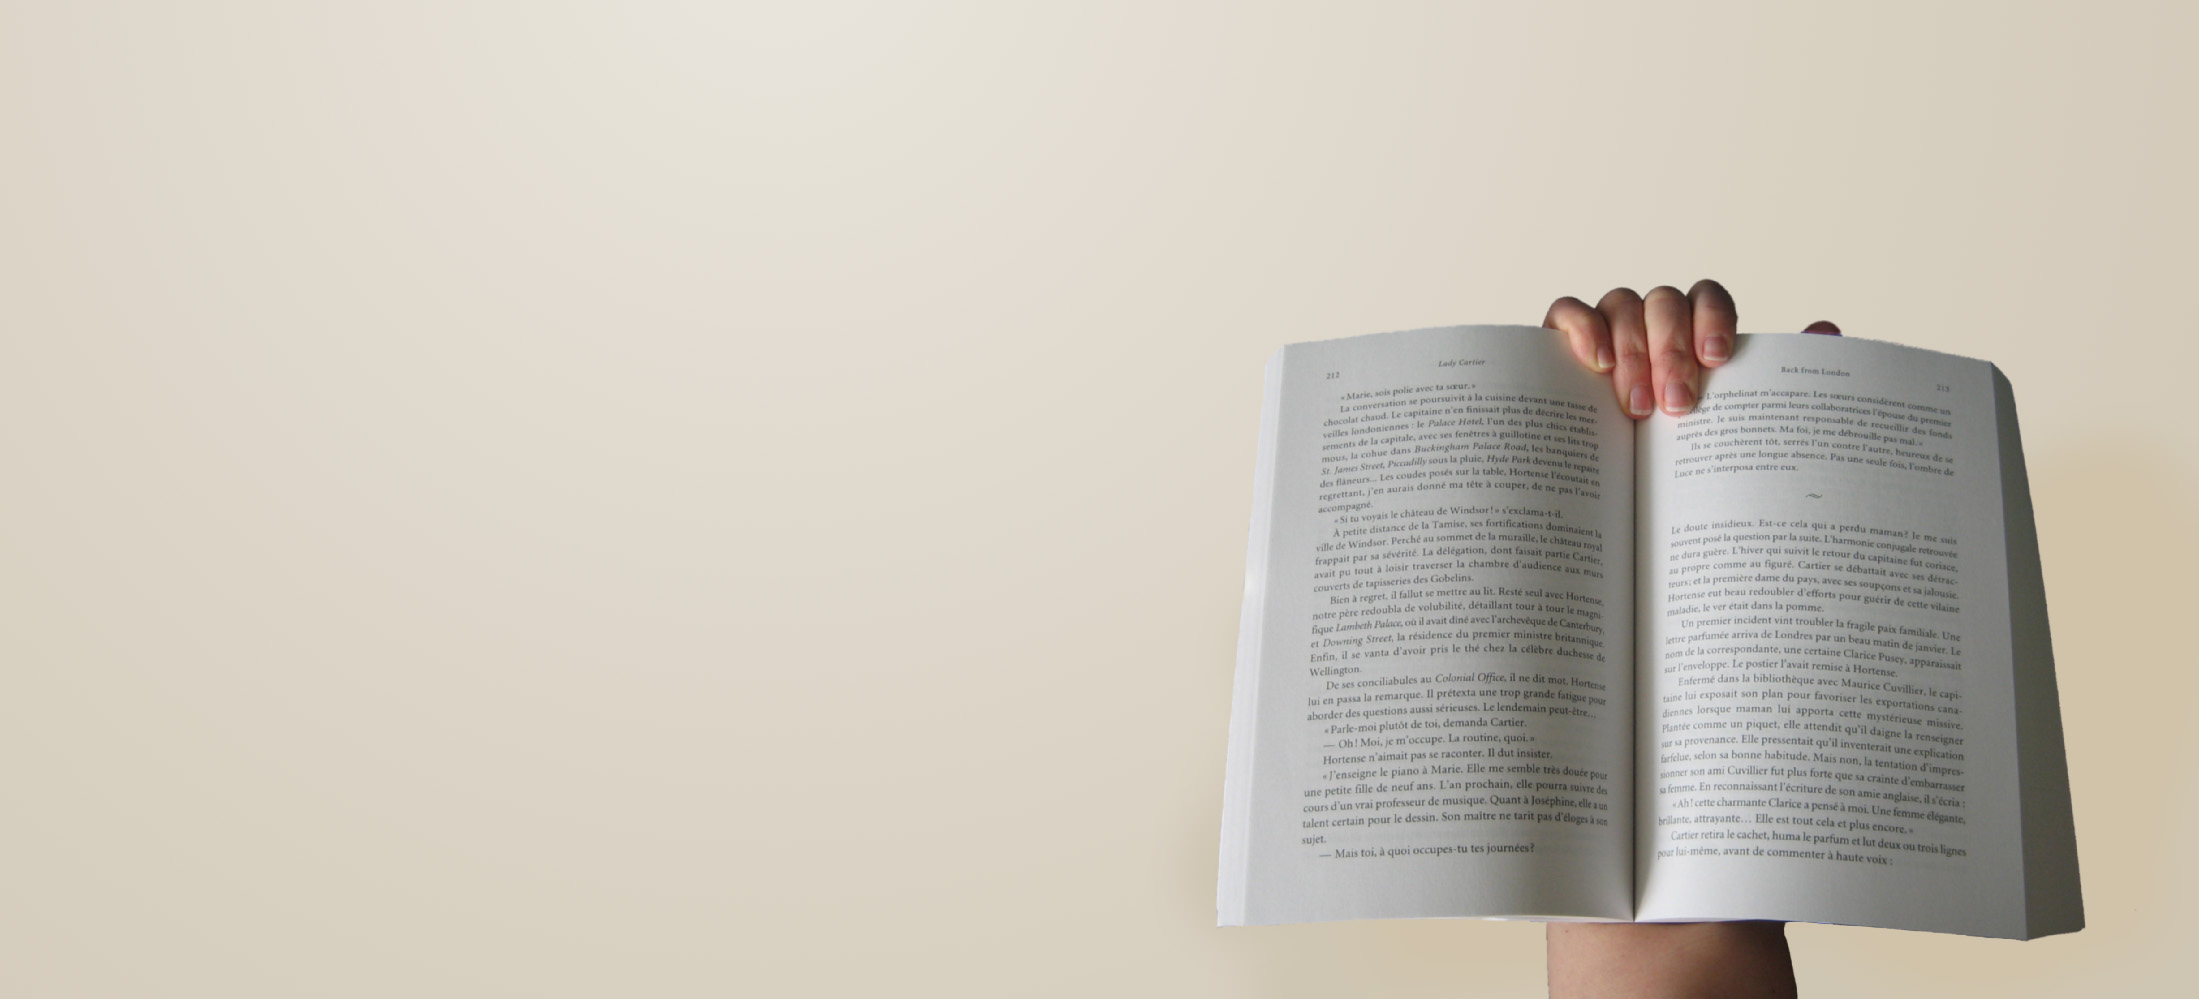
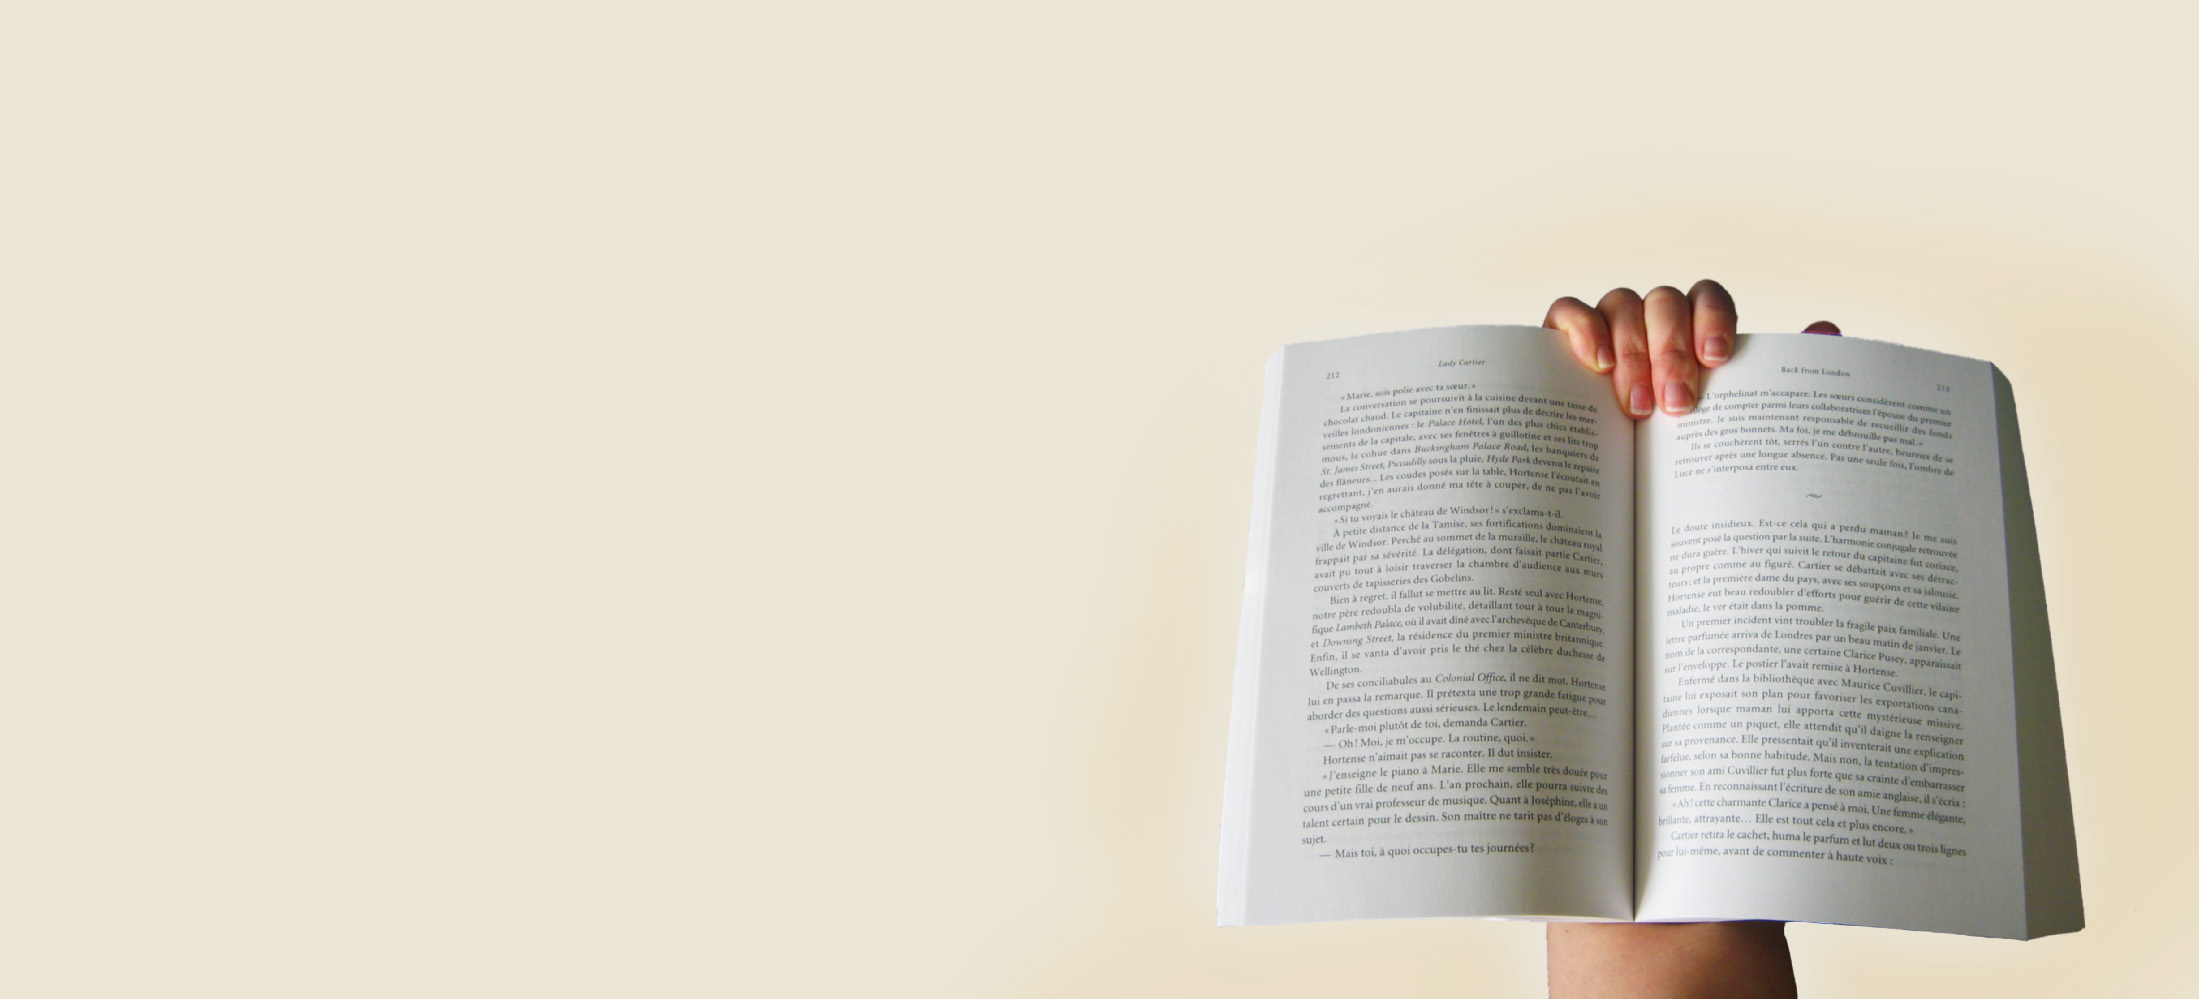
update index

diff --git a/css/obad.css b/css/obad.css
@@ -3,11 +3,45 @@
 /* GLOBAL SETTINGS */
 body {
     font: sans-serif;
+    color: black;
 }
 h1 {
     font: 20px, helvetica san-serif;
     position: relative;
     left: 80px;
+}
+.down {
+    position: relative;
+    top: 30px;
+
+}
+.hero-bottom-bar {
+    background: #fafafa;
+    padding: 20px 0 20px;
+
+}
+
+.hero-text {
+    position: absolute;
+    top: 250px;
+    left: 100px;
+    font:  bold 45px helvetica sans-serif;
+    color: #FFFFFF;
+
+}
+.below {
+    position: absolute;
+    top: 310px;
+    left: 100px;
+    font:   28px helvetica sans-serif;
+    color: #FFFFFF;
+
+}
+#logo {
+    position: absolute;
+    top: 20px;
+    left: 550px;
+    height: auto;
 }
 
 .top-bar {
@@ -42,7 +76,7 @@ h1 {
 .tcenter {
     position: relative;
     top:100px;
-    background-color: rgba(0,0,0,0.1);
+    background: #fafafa;
     padding: 20px;
     font: bold 18px helvetica sans-serif;
 }

diff --git a/index.html b/index.html
@@ -14,9 +14,22 @@
 
 
     <div>
-        <img src="images/hero2.jpg" width="100%">
+        <img src="images/hero.jpg" width="100%">
     </div>
-    <div class="container">
+    <div class="hero-text">
+        <p>每日一书</p>
+    </div>
+    <div class="hero-text below">
+        <p>给爱读书的你</p>
+    </div>
+    <div id="logo">
+        <img src="images/logo.png" width="50px">
+    </div>
+
+    <div class="hero-bottom-bar">
+    </div>
+
+    <div class="container down">
 
         <div class="row">
             <div class="col-xs-6 col-md-4 ">
